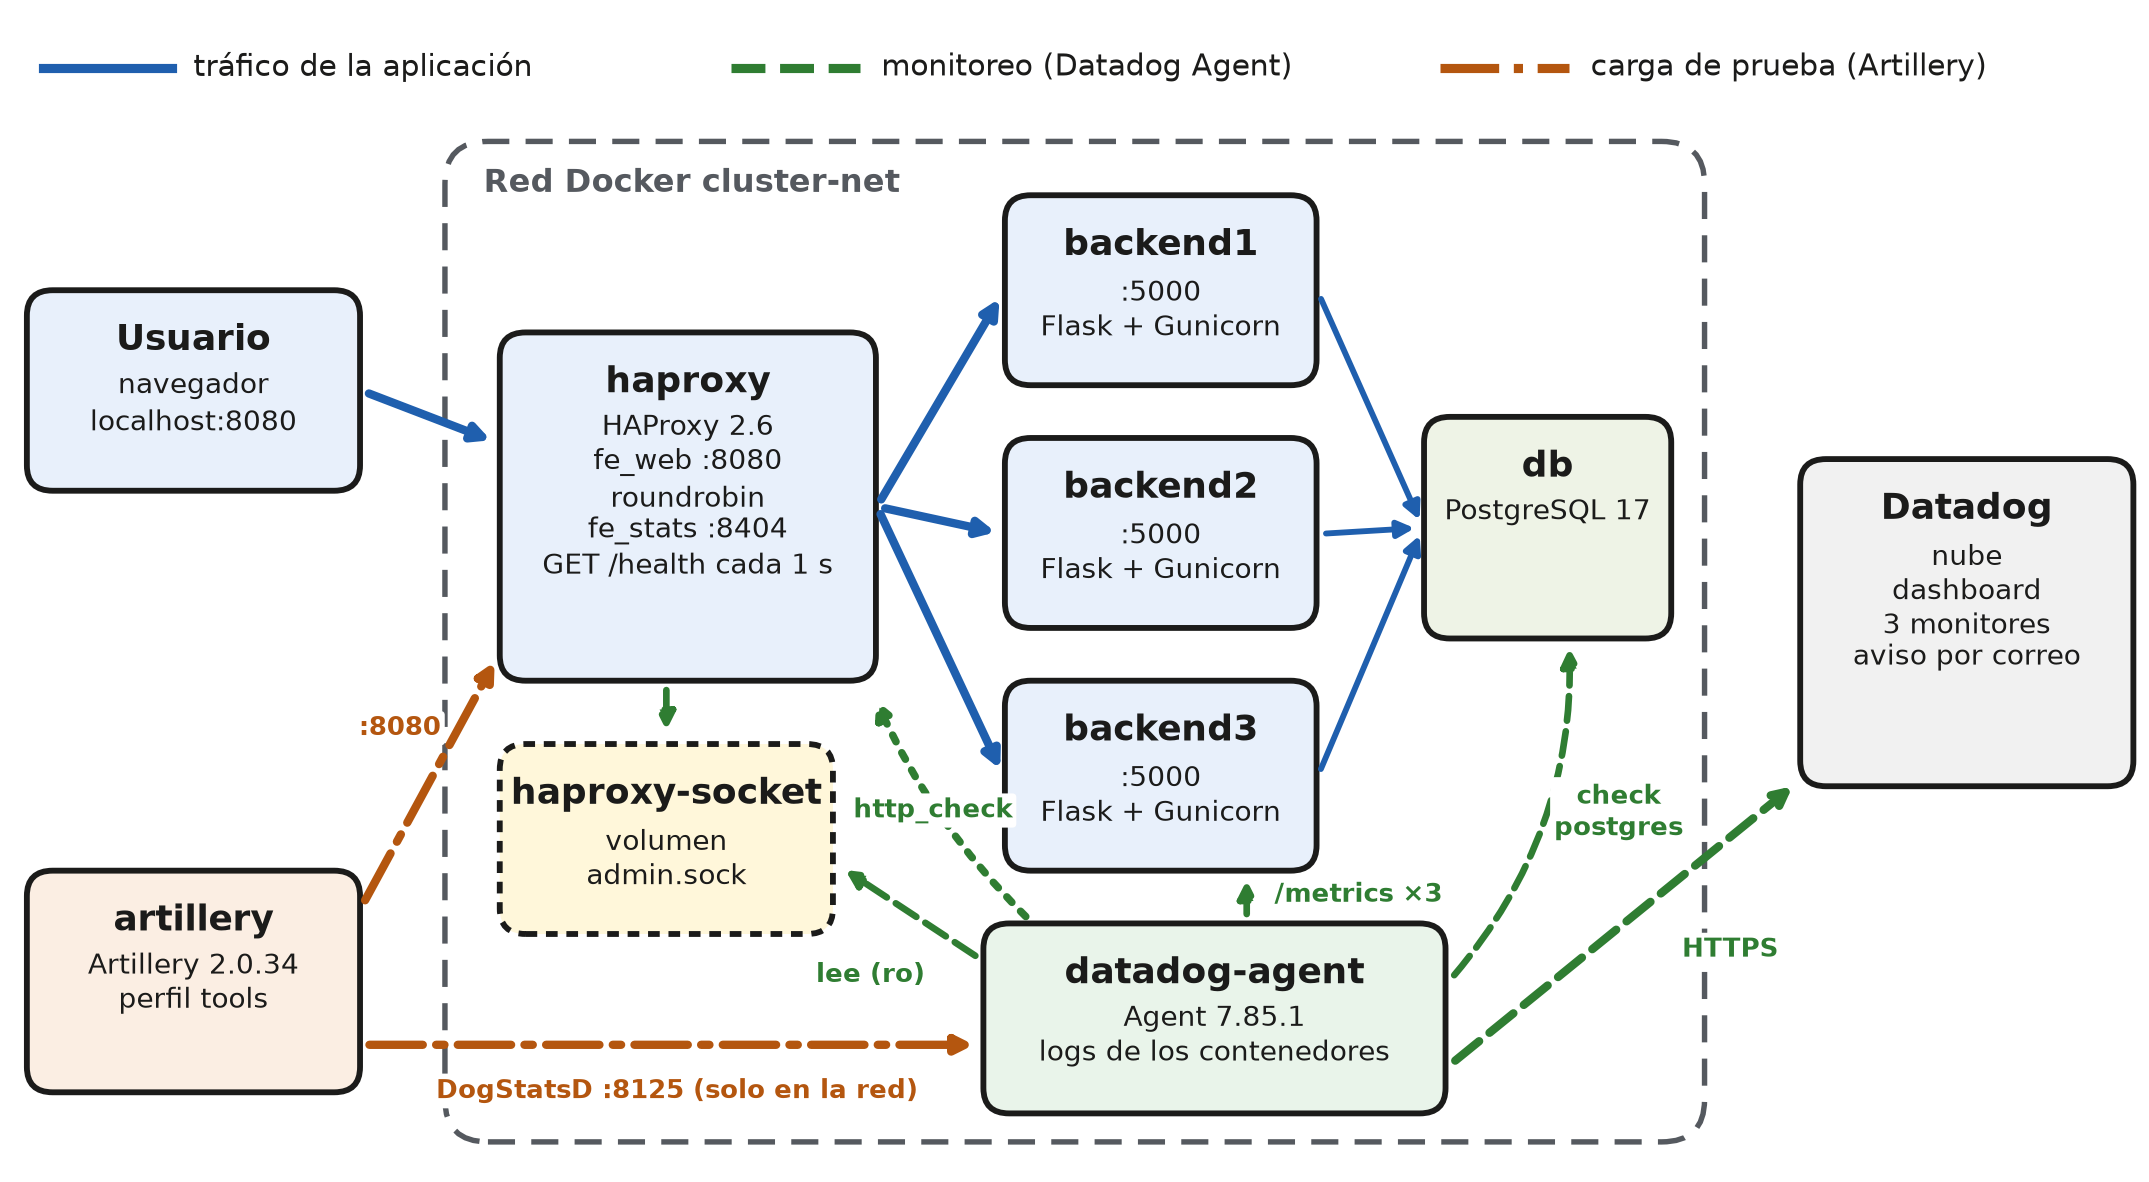
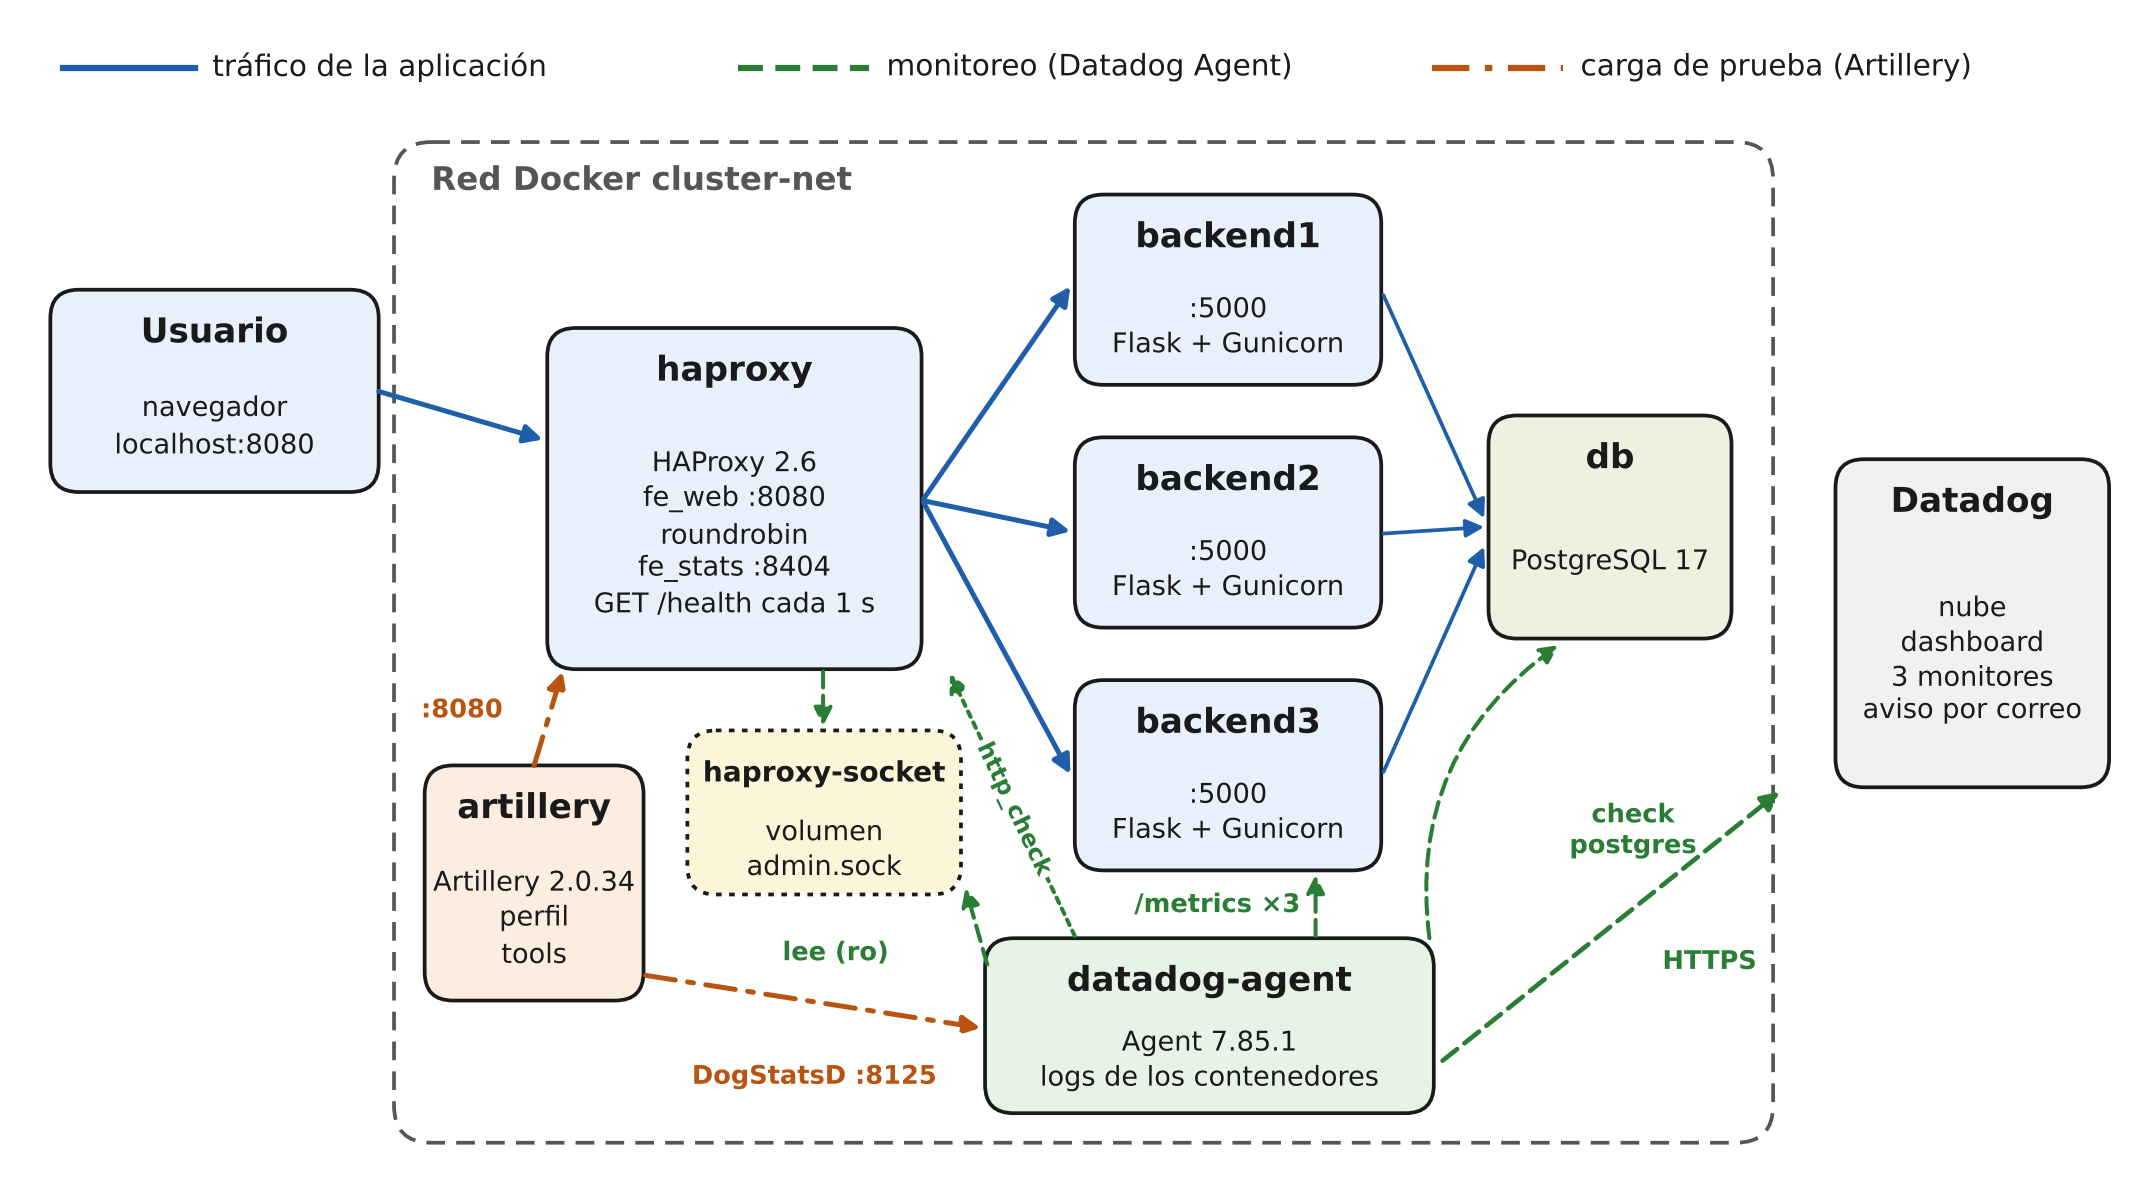
docs(diagramas): mover Artillery dentro de cluster-net y agregar script generador

diff --git a/docs/diagramas/generar-arquitectura.py b/docs/diagramas/generar-arquitectura.py
@@ -1,0 +1,107 @@
+import sys
+import matplotlib
+matplotlib.use("Agg")
+import matplotlib.pyplot as plt
+from matplotlib.patches import FancyBboxPatch
+
+# modo: "slide" (1920x1080 px) o "informe" (18,2 x 10 cm a 300 dpi)
+MODE = sys.argv[1]
+OUT = sys.argv[2]
+plt.rcParams["font.family"] = "DejaVu Sans"
+
+if MODE == "slide":
+    W_IN, H_IN, DPI = 19.2, 10.8, 100
+    X0, X1 = 0, 1920
+else:
+    W_IN, H_IN, DPI = 18.2 / 2.54, 10 / 2.54, 300
+    X0, X1 = -22, 1942   # misma altura 1080, un poco mas ancho para la proporcion 18,2 x 10
+S = W_IN / 19.2          # escala de tipografia y trazos respecto a la version slide
+
+fig = plt.figure(figsize=(W_IN, H_IN), dpi=DPI)
+ax = fig.add_axes([0, 0, 1, 1])
+ax.set_xlim(X0, X1)
+ax.set_ylim(1080, 0)
+ax.axis("off")
+
+BLUE, GREEN, ORANGE, INK = "#1f5faa", "#2a7d34", "#b8540f", "#1a1a1a"
+F_TITLE, F_BODY, F_LAB, F_LEG = 22 * S, 17.5 * S, 16.5 * S, 19 * S
+
+
+def box(x, y, w, h, title, body, fill, dotted=False, tscale=1.0):
+    ax.add_patch(FancyBboxPatch(
+        (x, y), w, h, boxstyle="round,pad=0,rounding_size=26",
+        fc=fill, ec=INK, lw=2.4 * S * 1.0 if MODE == "slide" else 2.4 * S * 1.0,
+        ls=(0, (1.5, 2)) if dotted else "-"))
+    ax.text(x + w / 2, y + 40, title, ha="center", va="center",
+            fontsize=F_TITLE * tscale, fontweight="bold", color=INK)
+    ax.text(x + w / 2, y + 52 + (h - 52) / 2 + 6, body, ha="center", va="center",
+            fontsize=F_BODY, color=INK, linespacing=1.28)
+
+
+def arrow(p, q, color, ls="-", rad=0.0, lw=3.2):
+    ax.annotate("", xy=q, xytext=p, arrowprops=dict(
+        arrowstyle="-|>", lw=lw * S, color=color, ls=ls, shrinkA=0, shrinkB=0,
+        mutation_scale=24 * S, connectionstyle=f"arc3,rad={rad}"))
+
+
+def label(x, y, t, color, ha="center"):
+    ax.text(x, y, t, ha=ha, va="center", fontsize=F_LAB, fontweight="bold", color=color)
+
+
+# leyenda
+for x, color, ls, txt in ((36, BLUE, "-", "tráfico de la aplicación"),
+                          (652, GREEN, (0, (4, 2)), "monitoreo (Datadog Agent)"),
+                          (1286, ORANGE, (0, (6, 2.5, 1.2, 2.5)), "carga de prueba (Artillery)")):
+    ax.plot([x, x + 120], [62, 62], color=color, ls=ls, lw=4 * S)
+    ax.text(x + 136, 62, txt, ha="left", va="center", fontsize=F_LEG, color=INK)
+
+# red Docker (ahora incluye a Artillery)
+ax.add_patch(FancyBboxPatch((338, 130), 1260, 915, boxstyle="round,pad=0,rounding_size=34",
+                            fc="none", ec="#555555", lw=2.4 * S, ls=(0, (5, 3))))
+ax.text(372, 166, "Red Docker cluster-net", ha="left", va="center",
+        fontsize=F_TITLE * 0.95, fontweight="bold", color="#555555")
+
+# nodos
+box(24, 265, 300, 185, "Usuario", "navegador\nlocalhost:8080", "#e8f0fb")
+box(478, 300, 342, 312, "haproxy",
+    "HAProxy 2.6\nfe_web :8080\nroundrobin\nfe_stats :8404\nGET /health cada 1 s", "#e8f0fb")
+for i, y in enumerate((178, 400, 622)):
+    box(960, y, 280, 174, f"backend{i+1}", ":5000\nFlask + Gunicorn", "#e8f0fb")
+box(1338, 380, 222, 204, "db", "PostgreSQL 17", "#eef1e0")
+box(1655, 420, 250, 300, "Datadog", "nube\ndashboard\n3 monitores\naviso por correo", "#f1f1f1")
+box(606, 668, 250, 150, "haproxy-socket", "volumen\nadmin.sock", "#fdf5da", dotted=True, tscale=0.82)
+box(366, 700, 200, 215, "artillery", "Artillery 2.0.34\nperfil\ntools", "#fbeee1")
+box(878, 858, 410, 160, "datadog-agent", "Agent 7.85.1\nlogs de los contenedores", "#e8f3e8")
+
+# tráfico de la aplicación
+arrow((324, 358), (474, 402), BLUE)
+for y in (265, 487, 709):
+    pass
+arrow((822, 456), (956, 262), BLUE)
+arrow((822, 458), (956, 486), BLUE)
+arrow((822, 460), (956, 708), BLUE)
+arrow((1242, 270), (1334, 474), BLUE, lw=2.4)
+arrow((1242, 488), (1334, 482), BLUE, lw=2.4)
+arrow((1242, 706), (1334, 500), BLUE, lw=2.4)
+
+# carga de prueba
+arrow((466, 700), (492, 614), ORANGE, ls=(0, (6, 2.5, 1.2, 2.5)))
+label(400, 650, ":8080", ORANGE, ha="center")
+arrow((568, 892), (874, 940), ORANGE, ls=(0, (6, 2.5, 1.2, 2.5)))
+label(722, 985, "DogStatsD :8125", ORANGE)
+
+# monitoreo
+arrow((730, 614), (730, 664), GREEN, ls=(0, (4, 2)), lw=2.6)
+arrow((880, 882), (860, 812), GREEN, ls=(0, (4, 2)), lw=2.6)
+label(790, 872, "lee (ro)", GREEN, ha="right")
+arrow((960, 856), (846, 616), GREEN, ls=(0, (1.5, 1.5)), lw=2.6)
+ax.text(904, 740, "http_check", ha="center", va="center", rotation=-64.6, rotation_mode="anchor", fontsize=F_LAB * 0.92, fontweight="bold", color=GREEN, bbox=dict(fc="white", ec="none", pad=2.5 * S / 0.373 * 0.373), zorder=5)
+arrow((1180, 856), (1180, 800), GREEN, ls=(0, (4, 2)), lw=2.6)
+label(1166, 828, "/metrics ×3", GREEN, ha="right")
+arrow((1284, 858), (1402, 590), GREEN, ls=(0, (4, 2)), rad=-0.3, lw=2.6)
+label(1470, 760, "check\npostgres", GREEN)
+arrow((1296, 970), (1604, 724), GREEN, ls=(0, (4, 2)), lw=3)
+label(1540, 880, "HTTPS", GREEN)
+
+fig.savefig(OUT, dpi=DPI, facecolor="white")
+print("ok", OUT)
